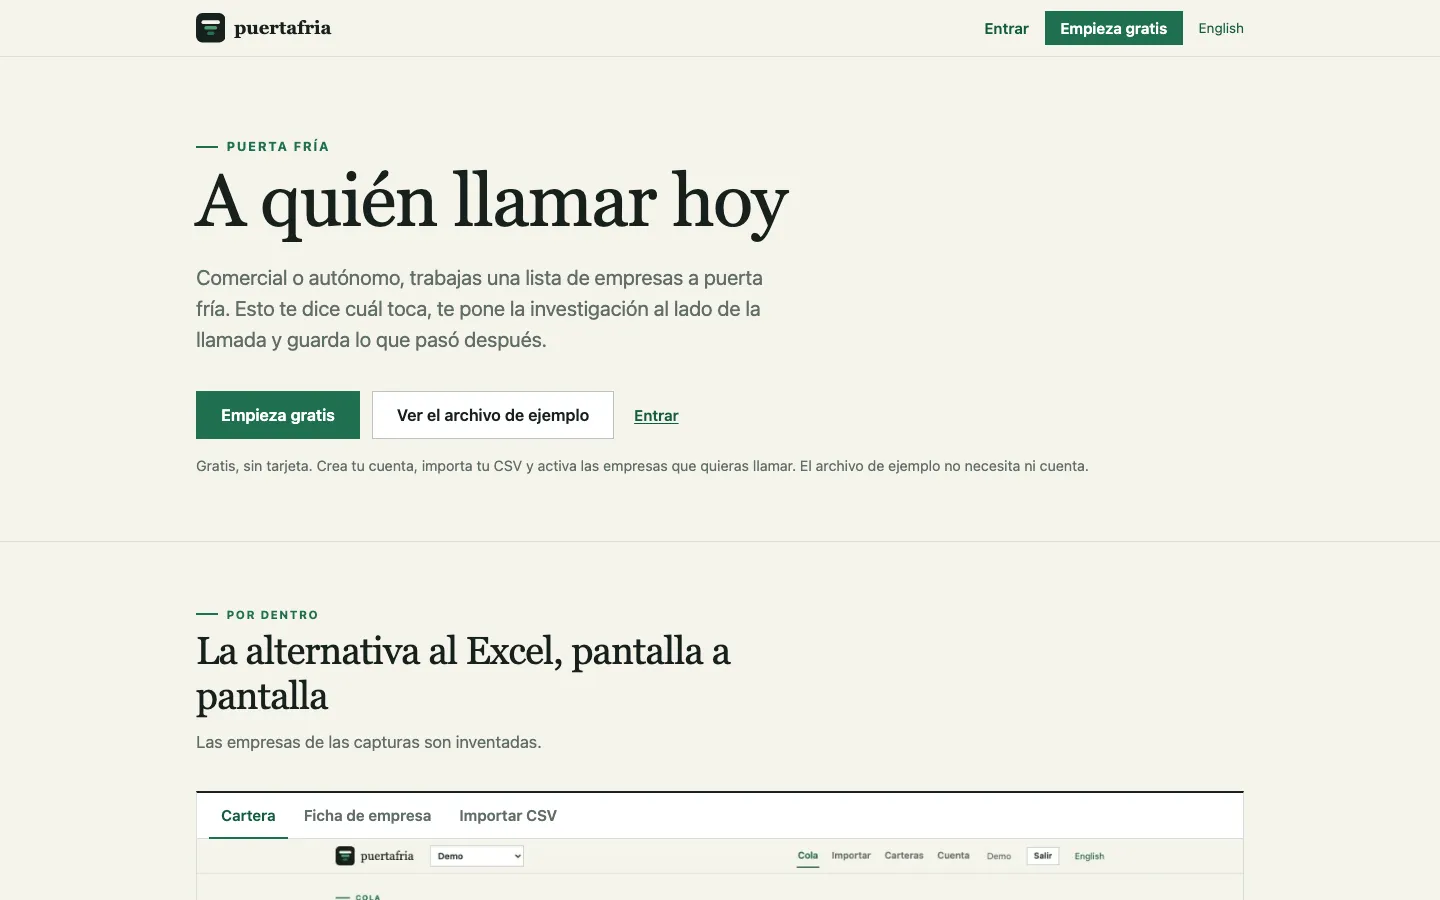
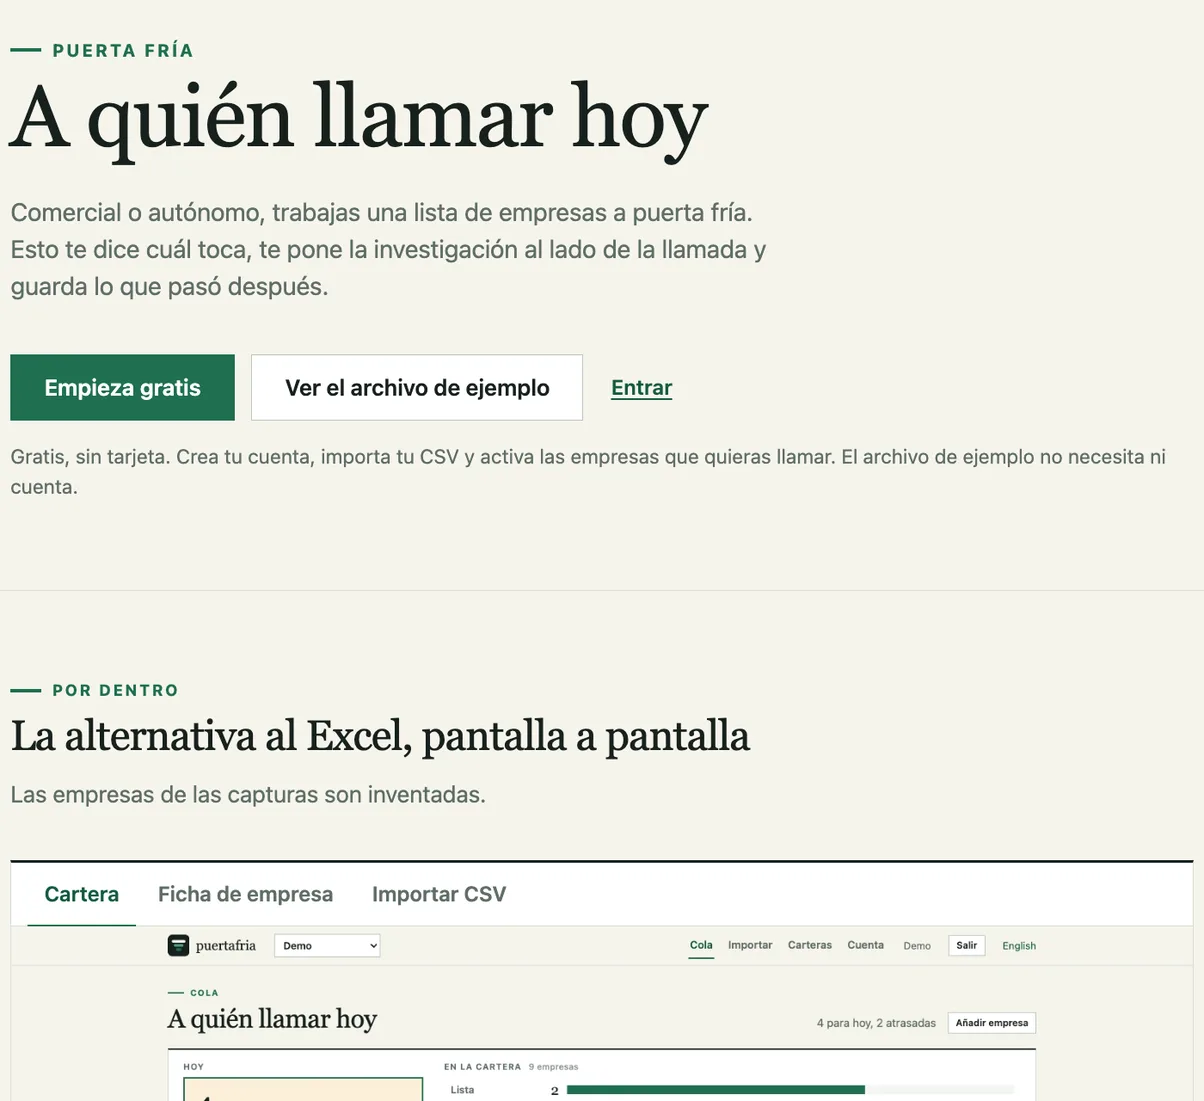
feat(services): tighter product shots and a self-advancing carousel
Recapture MIAFORO and puertafria without the browser chrome and with
the page margins trimmed, so the card crop lands on the headline
instead of on empty background. Both shots are now 1204x1100, which
also lets the hero slides drop their heavy zoom offsets.

The hero proof carousel moves on its own every ten seconds. Pointer,
keyboard, a hidden tab or a reduced-motion preference pause it, and a
manual move restarts the countdown.

Shorter Spanish intro for the web apps section.

Claude-Session: https://claude.ai/code/session_01VExX4evfXjgLt8ZaAf4usy

diff --git a/templates/services/web-development-sales.html b/templates/services/web-development-sales.html
@@ -98,7 +98,7 @@
         <article class="sales-hero-proof__slide sales-hero-proof__slide--miaforo" data-proof-slide hidden>
           <span class="sales-hero-proof__label">{% if lang == "es" %}Producto propio en producción{% else %}Own product, live today{% endif %}</span>
           <a href="{% if lang == 'es' %}https://miaforo.es/{% else %}https://miaforo.es/en{% endif %}" target="_blank" rel="noopener noreferrer" aria-label="{% if lang == 'es' %}Ver la aplicación MIAFORO{% else %}View the MIAFORO application{% endif %}">
-            <img src="/images/portfolio/miaforo-sample{% if lang == 'es' %}.es{% endif %}.webp" alt="MIAFORO gym management app" loading="lazy" width="720" height="450">
+            <img src="/images/portfolio/miaforo-sample{% if lang == 'es' %}.es{% endif %}.webp" alt="MIAFORO gym management app" loading="lazy" width="1204" height="1100">
           </a>
           <p class="sales-hero-proof__summary">{% if lang == "es" %}Reservas, cobros, socios y progreso para gimnasios independientes.{% else %}Bookings, payments, members, and progress for independent gyms.{% endif %}</p>
           <div class="sales-hero-proof__project">
@@ -110,7 +110,7 @@
         <article class="sales-hero-proof__slide sales-hero-proof__slide--puertafria" data-proof-slide hidden>
           <span class="sales-hero-proof__label">{% if lang == "es" %}Producto propio en producción{% else %}Own product, live today{% endif %}</span>
           <a href="{% if lang == 'es' %}https://puertafria.es/{% else %}https://puertafria.es/en{% endif %}" target="_blank" rel="noopener noreferrer" aria-label="{% if lang == 'es' %}Ver la aplicación puertafria{% else %}View the puertafria application{% endif %}">
-            <img src="/images/portfolio/puertafria-sample{% if lang == 'es' %}.es{% endif %}.webp" alt="puertafria sales app" loading="lazy" width="720" height="450">
+            <img src="/images/portfolio/puertafria-sample{% if lang == 'es' %}.es{% endif %}.webp" alt="puertafria sales app" loading="lazy" width="1204" height="1101">
           </a>
           <p class="sales-hero-proof__summary">{% if lang == "es" %}Un CSV convertido en un embudo diario y enfocado para captar clientes.{% else %}A CSV turned into a focused daily funnel for winning new clients.{% endif %}</p>
           <div class="sales-hero-proof__project">
@@ -397,11 +397,11 @@
     <div class="sales-section-heading">
       <span class="sales-eyebrow">{% if lang == "es" %}Construidas de principio a fin{% else %}Built end to end{% endif %}</span>
       <h2 id="capability-title">{% if lang == "es" %}También hago aplicaciones web{% else %}I also build web applications{% endif %}</h2>
-      <p>{% if lang == "es" %}Cuando un producto necesita cuentas, pagos, bases de datos o paneles, también los construyo. Son productos propios, diseñados, desarrollados, desplegados y operados por mí.{% else %}When a product needs accounts, payments, databases, or dashboards, I build those too. These are my own products, designed, built, deployed, and operated by me.{% endif %}</p>
+      <p>{% if lang == "es" %}Si un producto necesita cuentas, pagos o paneles, también lo construyo. Productos propios, diseñados y operados por mí.{% else %}When a product needs accounts, payments, databases, or dashboards, I build those too. These are my own products, designed, built, deployed, and operated by me.{% endif %}</p>
     </div>
     <div class="sales-app-grid">
       <a class="sales-app-card sales-app-card--crop-right" href="{% if lang == 'es' %}https://miaforo.es/{% else %}https://miaforo.es/en{% endif %}" target="_blank" rel="noopener noreferrer">
-        <img src="/images/portfolio/miaforo-sample{% if lang == 'es' %}.es{% endif %}.webp" alt="MIAFORO gym management app" loading="lazy" width="720" height="450">
+        <img src="/images/portfolio/miaforo-sample{% if lang == 'es' %}.es{% endif %}.webp" alt="MIAFORO gym management app" loading="lazy" width="1204" height="1100">
         <div class="sales-app-card__body">
           <div class="sales-app-card__topline">
             <span>{% if lang == "es" %}Aplicación web{% else %}Web app{% endif %}</span>
@@ -417,7 +417,7 @@
         </div>
       </a>
       <a class="sales-app-card sales-app-card--crop-left" href="{% if lang == 'es' %}https://puertafria.es/{% else %}https://puertafria.es/en{% endif %}" target="_blank" rel="noopener noreferrer">
-        <img src="/images/portfolio/puertafria-sample{% if lang == 'es' %}.es{% endif %}.webp" alt="puertafria sales app" loading="lazy" width="720" height="450">
+        <img src="/images/portfolio/puertafria-sample{% if lang == 'es' %}.es{% endif %}.webp" alt="puertafria sales app" loading="lazy" width="1204" height="1101">
         <div class="sales-app-card__body">
           <div class="sales-app-card__topline">
             <span>{% if lang == "es" %}Aplicación web{% else %}Web app{% endif %}</span>
@@ -482,13 +482,48 @@
       if (shouldTrack) track('WebsiteProofViewed', { project: current + 1 });
     };
 
-    if (previous) previous.addEventListener('click', function () { showProject(current - 1, true); });
-    if (next) next.addEventListener('click', function () { showProject(current + 1, true); });
+    // The carousel advances on its own every ten seconds. Any manual move
+    // restarts the countdown, and pointer, keyboard or a hidden tab pause it.
+    const AUTOPLAY_MS = 10000;
+    const stillMotion = window.matchMedia('(prefers-reduced-motion: reduce)');
+    let autoplay = null;
+
+    const stopAutoplay = function () {
+      if (autoplay) {
+        window.clearInterval(autoplay);
+        autoplay = null;
+      }
+    };
+
+    const startAutoplay = function () {
+      stopAutoplay();
+      if (slides.length < 2 || stillMotion.matches || document.hidden) return;
+      autoplay = window.setInterval(function () { showProject(current + 1, false); }, AUTOPLAY_MS);
+    };
+
+    const moveTo = function (index) {
+      showProject(index, true);
+      startAutoplay();
+    };
+
+    if (previous) previous.addEventListener('click', function () { moveTo(current - 1); });
+    if (next) next.addEventListener('click', function () { moveTo(current + 1); });
     dots.forEach(function (dot) {
       dot.addEventListener('click', function () {
-        showProject(Number(dot.dataset.proofDot), true);
+        moveTo(Number(dot.dataset.proofDot));
       });
     });
+
+    showcase.addEventListener('mouseenter', stopAutoplay);
+    showcase.addEventListener('mouseleave', startAutoplay);
+    showcase.addEventListener('focusin', stopAutoplay);
+    showcase.addEventListener('focusout', startAutoplay);
+    document.addEventListener('visibilitychange', function () {
+      if (document.hidden) stopAutoplay();
+      else startAutoplay();
+    });
+
+    startAutoplay();
   }
 
   document.querySelectorAll('[data-quote-cta]').forEach(function (cta) {

diff --git a/sass/pages/_web-development-sales.scss b/sass/pages/_web-development-sales.scss
@@ -95,8 +95,8 @@
   &__slide--dkrisna { --proof-width: 168.42%; --proof-left: -34.74%; --proof-top: -61.47%; }
   &__slide--dinamita { --proof-width: 138.46%; --proof-left: -19.23%; --proof-top: -43.08%; }
   &__slide--postcard { --proof-width: 139.13%; --proof-left: -20%; --proof-top: -46.61%; }
-  &__slide--miaforo { --proof-width: 180%; --proof-left: -45%; --proof-top: -27%; }
-  &__slide--puertafria { --proof-width: 180%; --proof-left: -22.5%; --proof-top: -23%; }
+  &__slide--miaforo { --proof-width: 139%; --proof-left: 0%; --proof-top: 0%; }
+  &__slide--puertafria { --proof-width: 124%; --proof-left: 0%; --proof-top: 0%; }
 
   &__slide > a {
     display: block;
@@ -647,11 +647,11 @@
   }
 
   &--crop-right > img {
-    object-position: 48% top;
+    object-position: 11% top;
   }
 
   &--crop-left > img {
-    object-position: 22% top;
+    object-position: 4% top;
   }
 
   &__body {
